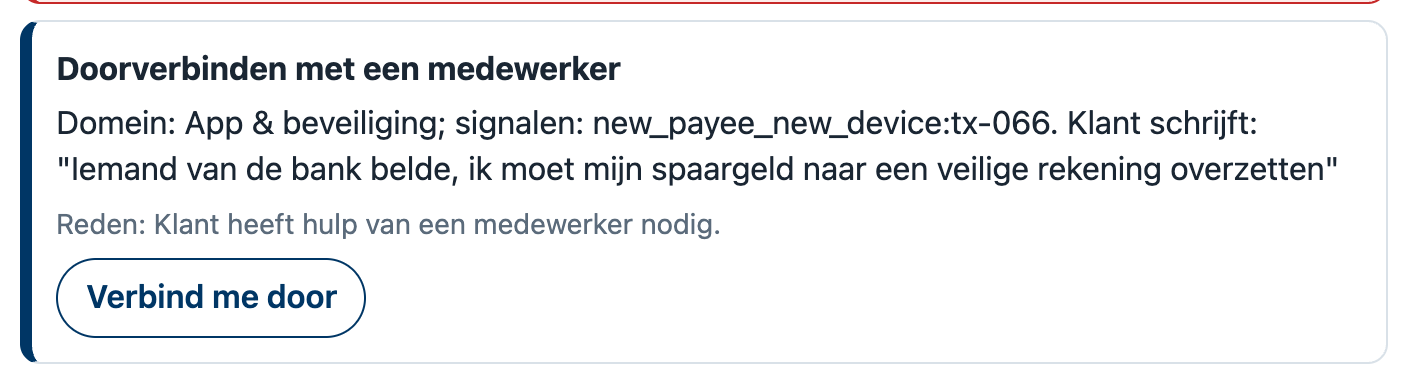
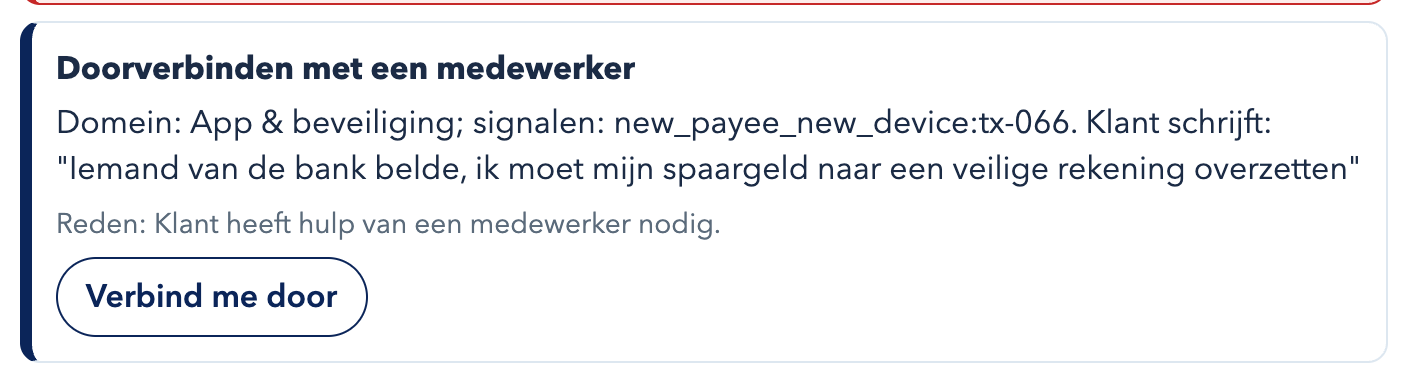
feat: Kate branding and palette, refreshed screenshots
- KateLogo/KateIcon SVG components (ring with five voice bars, slab
  wordmark with "+") in the chat and dashboard headers
- Kate palette: navy wordmark, bright blue user bubbles, soft blue-grey
  assistant bubbles with Kate avatar, light sky background
- Recaptured all screenshots in docs/screenshots

diff --git a/components/Chat.module.css b/components/Chat.module.css
@@ -1,4 +1,4 @@
-.chat { display: flex; flex-direction: column; gap: 10px; background: var(--surface); border: 1px solid var(--border); border-radius: var(--radius); padding: 14px; min-width: 0; }
+.chat { display: flex; flex-direction: column; gap: 10px; background: var(--surface); border: 1px solid var(--border); box-shadow: 0 12px 40px rgba(11, 37, 89, 0.07); border-radius: var(--radius); padding: 14px; min-width: 0; }
 .controls { display: flex; flex-wrap: wrap; align-items: center; justify-content: space-between; gap: 10px; }
 .switch { display: inline-flex; align-items: center; gap: 6px; font-size: 0.9rem; cursor: pointer; }
 .switch input { width: 18px; height: 18px; }
@@ -6,9 +6,10 @@
 .empty { color: var(--muted); margin: 0; }
 .userRow { display: flex; justify-content: flex-end; }
 .assistantRow, .compareRow { display: block; }
-.user, .assistant { max-width: 85%; padding: 10px 14px; border-radius: 16px; }
-.user { background: var(--kbc-navy); color: #fff; border-bottom-right-radius: 4px; }
-.assistant { background: var(--bg); border: 1px solid var(--border); border-bottom-left-radius: 4px; max-width: 100%; }
+.user, .assistant { max-width: 85%; padding: 12px 18px; border-radius: 22px; box-shadow: 0 6px 18px rgba(11, 37, 89, 0.06); }
+.user { background: var(--kate-bubble); color: #fff; border-bottom-right-radius: 6px; }
+.assistantLine { display: flex; align-items: flex-end; gap: 10px; }
+.assistant { background: var(--kate-assistant); color: var(--kate-navy); border-bottom-left-radius: 6px; max-width: 100%; flex: 1; min-width: 0; }
 .text { margin: 0; white-space: pre-wrap; overflow-wrap: anywhere; }
 .label { font-size: 0.75rem; font-weight: 700; color: var(--kbc-navy); margin-bottom: 4px; text-transform: uppercase; }
 .error { color: var(--danger); background: #fdecea; border-radius: 10px; padding: 10px 14px; }
@@ -16,13 +17,13 @@
 .diff { margin: 8px 0 0; font-weight: 700; color: var(--ok); }
 .thinking { color: var(--muted); font-style: italic; margin: 0; }
 .chips { display: flex; flex-wrap: wrap; gap: 6px; }
-.suggestion { font: inherit; font-size: 0.85rem; text-align: left; padding: 6px 12px; border-radius: 999px; border: 1px solid var(--kbc-blue); background: #fff; color: var(--kbc-navy); cursor: pointer; }
+.suggestion { font: inherit; font-size: 0.85rem; text-align: left; padding: 6px 12px; border-radius: 999px; border: 1px solid var(--kate-ring); background: var(--kate-sky); color: var(--kate-navy); cursor: pointer; }
 .suggestion:disabled { opacity: 0.6; cursor: default; }
 .form { display: flex; flex-direction: column; gap: 6px; }
 .textarea { width: 100%; font: inherit; padding: 10px; border: 1px solid var(--border); border-radius: 12px; resize: vertical; }
 .formRow { display: flex; align-items: center; justify-content: space-between; }
 .counter { font-size: 0.8rem; color: var(--muted); }
-.send { font: inherit; font-weight: 700; min-height: 44px; padding: 8px 22px; border-radius: 999px; border: 0; background: var(--kbc-navy); color: #fff; cursor: pointer; }
+.send { font: inherit; font-weight: 700; min-height: 44px; padding: 8px 22px; border-radius: 999px; border: 0; background: var(--kate-blue); color: #fff; cursor: pointer; }
 .send:disabled { opacity: 0.5; cursor: default; }
 .srOnly { position: absolute; width: 1px; height: 1px; overflow: hidden; clip: rect(0 0 0 0); white-space: nowrap; }
 @media (min-width: 720px) {

diff --git a/components/KateLogo.tsx b/components/KateLogo.tsx
@@ -1,0 +1,39 @@
+import styles from "./KateLogo.module.css";
+
+/** Kate "voice" mark: soft blue ring with five rounded bars (recreated as SVG). */
+export function KateIcon({ size = 40, title }: { size?: number; title?: string }) {
+  return (
+    <svg
+      className={styles.icon}
+      width={size}
+      height={size}
+      viewBox="0 0 100 100"
+      role={title ? "img" : undefined}
+      aria-label={title}
+      aria-hidden={title ? undefined : true}
+    >
+      <circle cx="50" cy="50" r="47" fill="#e8f4fc" stroke="#b7dcf4" strokeWidth="5" />
+      <circle cx="50" cy="50" r="38" fill="#f6fbfe" />
+      <g fill="#0a9fe0">
+        <rect x="40" y="25.5" width="12.5" height="5.5" rx="2.75" />
+        <rect x="30.5" y="36" width="25.5" height="5.5" rx="2.75" />
+        <rect x="25" y="46.8" width="50" height="5.5" rx="2.75" />
+        <rect x="44.5" y="57.6" width="25" height="5.5" rx="2.75" />
+        <rect x="47.8" y="68.2" width="12.5" height="5.5" rx="2.75" />
+      </g>
+    </svg>
+  );
+}
+
+/** Full lockup: icon + "Kate" wordmark + "+" and optional suffix (e.g. "dashboard"). */
+export function KateLogo({ suffix, as: Tag = "h1" }: { suffix?: string; as?: "h1" | "div" }) {
+  return (
+    <Tag className={styles.lockup}>
+      <KateIcon size={46} />
+      <span className={styles.word}>
+        Kate<span className={styles.plus}>+</span>
+        {suffix ? <span className={styles.suffix}> {suffix}</span> : null}
+      </span>
+    </Tag>
+  );
+}

diff --git a/app/globals.css b/app/globals.css
@@ -1,15 +1,22 @@
 :root {
-  --kbc-navy: #003665;
-  --kbc-blue: #00aeef;
-  --bg: #f3f6f9;
+  /* Kate palette (navy wordmark, bright "voice" blue, soft sky tints) */
+  --kate-navy: #0b2559;
+  --kate-blue: #0a9fe0;
+  --kate-bubble: #1fa8e8;
+  --kate-sky: #e8f4fc;
+  --kate-ring: #b7dcf4;
+  --kate-assistant: #eef3f7;
+  --kbc-navy: var(--kate-navy);
+  --kbc-blue: var(--kate-blue);
+  --bg: #f7fafd;
   --surface: #ffffff;
-  --text: #1a2633;
+  --text: #1b2b45;
   --muted: #5b6b7b;
-  --border: #d9e1e8;
+  --border: #dde7f0;
   --danger: #c62828;
   --warning: #b26a00;
   --ok: #2e7d32;
-  --radius: 14px;
+  --radius: 18px;
 }
 
 * { box-sizing: border-box; }
@@ -17,9 +24,13 @@
 html, body {
   margin: 0;
   padding: 0;
-  background: var(--bg);
+  background:
+    radial-gradient(1200px 700px at 100% 0%, var(--kate-sky) 0%, rgba(232, 244, 252, 0) 60%),
+    radial-gradient(900px 600px at 0% 100%, #f0f7fd 0%, rgba(240, 247, 253, 0) 55%),
+    var(--bg);
+  background-attachment: fixed;
   color: var(--text);
-  font-family: system-ui, -apple-system, "Segoe UI", Roboto, sans-serif;
+  font-family: "Avenir Next", Avenir, system-ui, -apple-system, "Segoe UI", Roboto, sans-serif;
   line-height: 1.45;
 }
 

diff --git a/components/Chat.tsx b/components/Chat.tsx
@@ -15,6 +15,7 @@ import { Interventions } from "./Interventions";
 import { MetaChips } from "./MetaChips";
 import { ModeToggle } from "./ModeToggle";
 import styles from "./Chat.module.css";
+import { KateIcon } from "./KateLogo";
 
 type Outcome = { ok: true; data: ChatResponse } | { ok: false; error: string };
 
@@ -98,9 +99,12 @@ export function Chat() {
     const d = o.data;
     return (
       <div>
-        <div className={styles.assistant}>
-          {label ? <div className={styles.label}>{label}</div> : null}
-          <p className={styles.text}>{d.reply}</p>
+        <div className={styles.assistantLine}>
+          <KateIcon size={34} />
+          <div className={styles.assistant}>
+            {label ? <div className={styles.label}>{label}</div> : null}
+            <p className={styles.text}>{d.reply}</p>
+          </div>
         </div>
         <MetaChips meta={d.meta} />
         {d.meta.interventions.length > 0 ? (

diff --git a/app/dashboard/page.module.css b/app/dashboard/page.module.css
@@ -2,7 +2,7 @@
 .header { display: flex; align-items: center; justify-content: space-between; gap: 12px; padding: 8px 4px 14px; flex-wrap: wrap; }
 .title { margin: 0; font-size: 1.6rem; font-weight: 800; letter-spacing: -0.02em; color: var(--kbc-navy); line-height: 1.1; }
 .plus { color: var(--kbc-blue); }
-.sub { margin: 4px 0 0; font-size: 0.85rem; color: var(--muted); }
+.sub { margin: 6px 0 0 58px; font-size: 0.85rem; color: var(--muted); }
 .back { font-weight: 600; padding: 8px 16px; border: 1px solid var(--kbc-navy); border-radius: 999px; text-decoration: none; color: var(--kbc-navy); background: var(--surface); }
 .empty { background: var(--surface); border: 1px solid var(--border); border-radius: var(--radius); padding: 28px 20px; text-align: center; }
 .empty h2 { margin: 0 0 8px; color: var(--kbc-navy); font-size: 1.15rem; }

diff --git a/app/page.module.css b/app/page.module.css
@@ -1,8 +1,6 @@
 .page { max-width: 1100px; margin: 0 auto; padding: 12px; }
 .header { display: flex; align-items: center; justify-content: space-between; gap: 12px; padding: 8px 4px 14px; }
-.logo { margin: 0; font-size: 1.9rem; font-weight: 800; letter-spacing: -0.02em; color: var(--kbc-navy); line-height: 1; }
-.plus { color: var(--kbc-blue); }
-.sub { margin: 4px 0 0; font-size: 0.85rem; color: var(--muted); }
+.sub { margin: 6px 0 0 58px; font-size: 0.85rem; color: var(--muted); }
 .dash { font-weight: 600; padding: 8px 16px; border: 1px solid var(--kbc-navy); border-radius: 999px; text-decoration: none; color: var(--kbc-navy); background: var(--surface); }
 .layout { display: grid; grid-template-columns: 1fr; gap: 14px; }
 .side { display: flex; flex-direction: column; gap: 14px; min-width: 0; }

diff --git a/app/dashboard/page.tsx b/app/dashboard/page.tsx
@@ -1,4 +1,5 @@
 import Link from "next/link";
+import { KateLogo } from "@/components/KateLogo";
 import { DOMAINS, DOMAIN_LABELS_NL, LANGUAGES, type Domain, type Language } from "@/lib/contracts";
 import { loadResults } from "./loadResults";
 import styles from "./page.module.css";
@@ -54,9 +55,7 @@ export default async function DashboardPage() {
     <div className={styles.page}>
       <header className={styles.header}>
         <div>
-          <h1 className={styles.title}>
-            Kate<span className={styles.plus}>+</span> dashboard
-          </h1>
+          <KateLogo suffix="dashboard" />
           <p className={styles.sub}>Evaluatieresultaten · synthetische data</p>
         </div>
         <Link href="/" className={styles.back}>Terug naar de chat</Link>

diff --git a/app/page.tsx b/app/page.tsx
@@ -1,5 +1,6 @@
 import Link from "next/link";
 import { Chat } from "@/components/Chat";
+import { KateLogo } from "@/components/KateLogo";
 import { NotificationsPanel } from "@/components/NotificationsPanel";
 import { SmsChecker } from "@/components/SmsChecker";
 import styles from "./page.module.css";
@@ -9,9 +10,7 @@ export default function HomePage() {
     <div className={styles.page}>
       <header className={styles.header}>
         <div>
-          <h1 className={styles.logo}>
-            Kate<span className={styles.plus}>+</span>
-          </h1>
+          <KateLogo />
           <p className={styles.sub}>PoC · synthetische data (persona Sofie)</p>
         </div>
         <Link href="/dashboard" className={styles.dash}>Dashboard</Link>

diff --git a/components/KateLogo.module.css b/components/KateLogo.module.css
@@ -1,0 +1,11 @@
+.icon { flex: none; display: block; }
+.lockup { display: inline-flex; align-items: center; gap: 12px; margin: 0; line-height: 1; }
+.word {
+  font-family: Rockwell, "Rockwell Nova", "Roboto Slab", "Clarendon", Georgia, serif;
+  font-weight: 800;
+  font-size: 2.1rem;
+  letter-spacing: -0.01em;
+  color: var(--kate-navy);
+}
+.plus { color: var(--kate-blue); margin-left: 1px; }
+.suffix { font-family: system-ui, -apple-system, "Segoe UI", Roboto, sans-serif; font-weight: 600; font-size: 1.2rem; color: var(--muted); letter-spacing: 0; }
